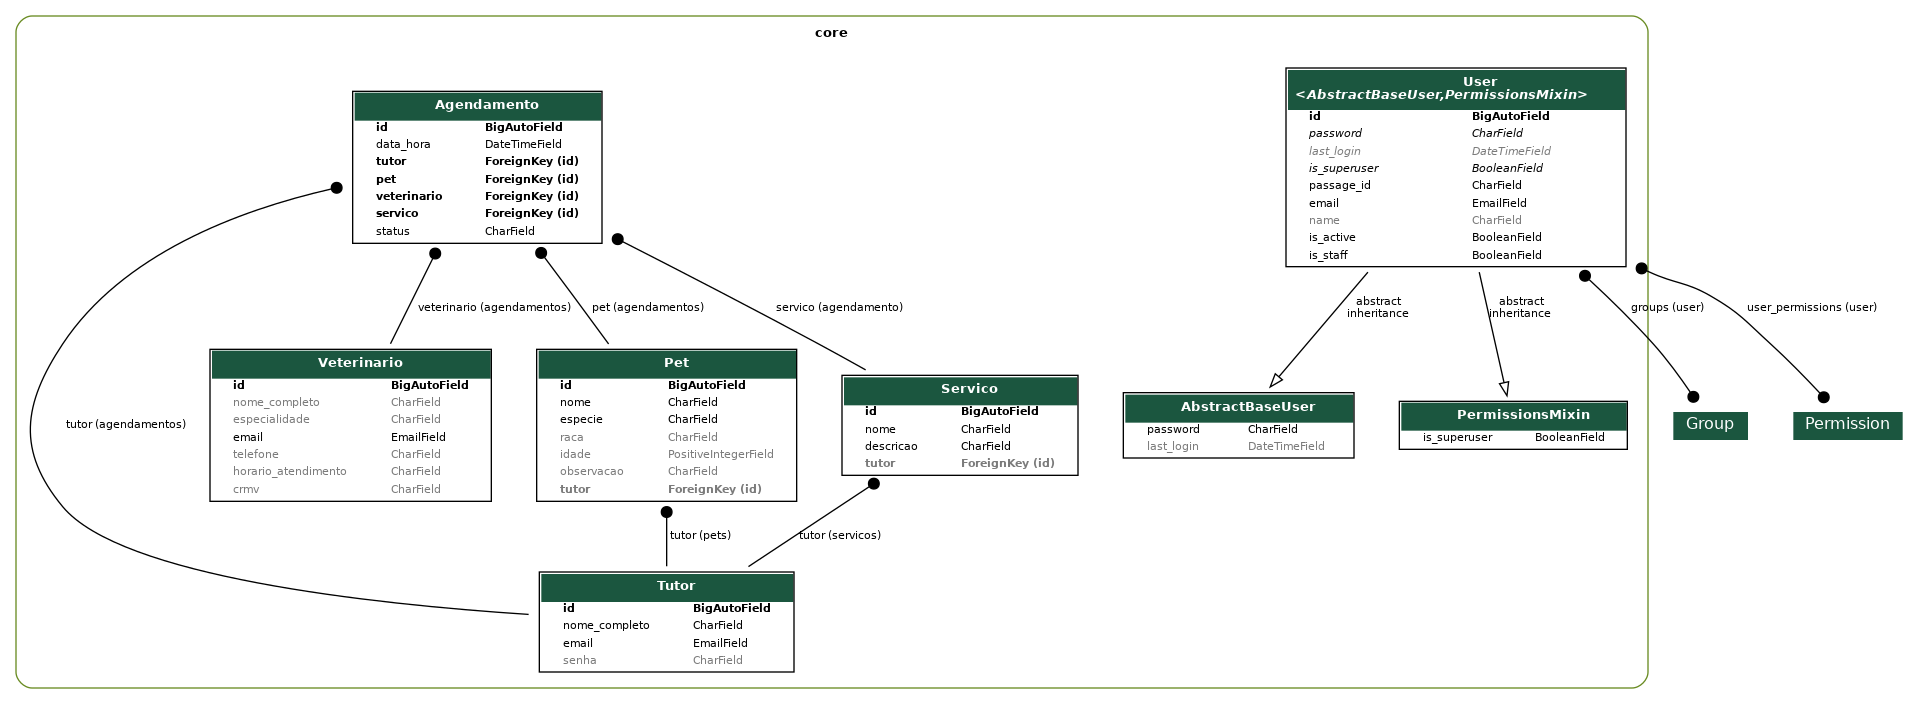
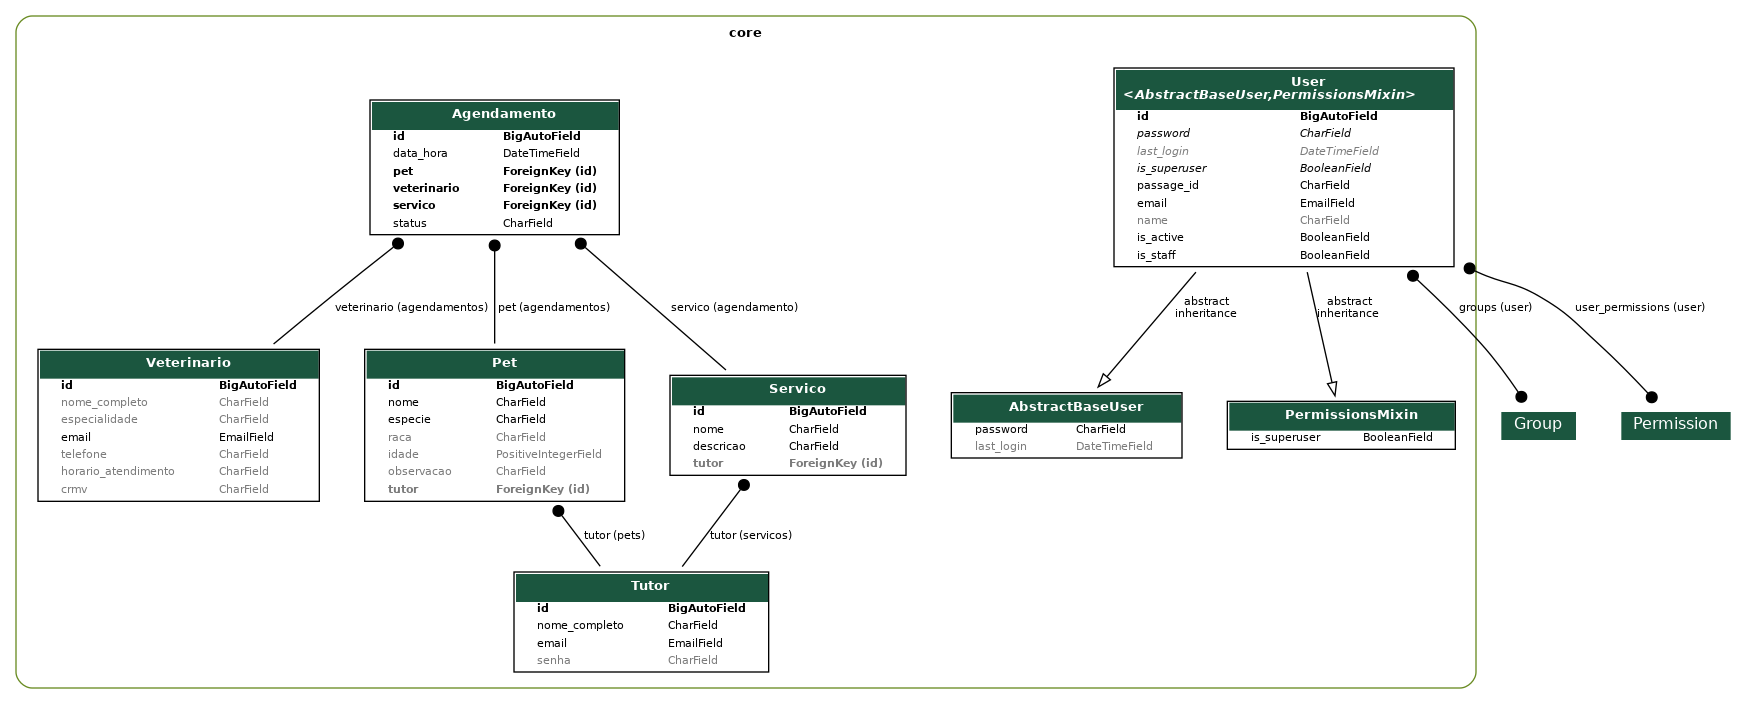
Feat: Arrumando

diff --git a/core/serializers/tutor.py b/core/serializers/tutor.py
@@ -28,30 +28,13 @@ class TutorSerializer(serializers.ModelSerializer):
     def get_qtd_pets(self, obj):
         return obj.pets.count() if hasattr(obj, 'pets') else 0
 
-<<<<<<< HEAD
     def validate_email(self, value):
-=======
-    def get_telefone_formatado(self, obj):
-        if not obj.telefone:
-            return ''
-
-        telefone = obj.telefone
-        if len(telefone) == 11:
-            return f'({telefone[:2]}) {telefone[2:7]}-{telefone[7:]}'
-        elif len(telefone) == 10:
-            return f'({telefone[:2]}) {telefone[2:6]}-{telefone[6:]}'
-        return telefone
-
-    def validate_email(self, value):
-
->>>>>>> 0f87b8cf1c4042b1a43f1158da62e4492b30cdee
         if Tutor.objects.filter(email=value).exists():
             if self.instance and self.instance.email == value:
                 return value
             raise serializers.ValidationError('Este email já está cadastrado.')
         return value
 
-<<<<<<< HEAD
 
 def create(self, validated_data):
     validated_data.pop('confirmar_senha')
@@ -64,10 +47,3 @@ def update(self, instance, validated_data):
     if 'senha' in validated_data:
         validated_data['senha'] = 'make_password'(validated_data['senha'])
     return super().update(instance, validated_data)
-=======
-    def validate_telefone(self, value):
-
-        if value and not value.isdigit():
-            raise serializers.ValidationError('O telefone deve conter apenas números.')
-        return value
->>>>>>> 0f87b8cf1c4042b1a43f1158da62e4492b30cdee

diff --git a/core/serializers/pet.py b/core/serializers/pet.py
@@ -15,7 +15,6 @@ class PetSerializer(serializers.ModelSerializer):
             'especie',
             'raca',
             'idade',
-            'peso',
             'observacao',
             'tutor',
             'tutor_nome',
@@ -25,17 +24,3 @@ class PetSerializer(serializers.ModelSerializer):
         ]
         read_only_fields = ['id', 'idade']
         extra_kwargs = {'tutor': {'write_only': True}}
-
-    def validate_peso(self, value):
-        if value and value <= 0:
-            raise serializers.ValidationError('O peso deve ser maior que zero.')
-        return value
-
-    def validate(self, data):
-<<<<<<< HEAD
-
-=======
->>>>>>> 0f87b8cf1c4042b1a43f1158da62e4492b30cdee
-        if data.get('peso') and data.get('especie') == 'ave' and data['peso'] > 10:
-            raise serializers.ValidationError('Peso muito alto para uma ave.')
-        return data

diff --git a/core/models/pet.py b/core/models/pet.py
@@ -4,7 +4,7 @@ from core.models import Tutor
 
 
 class Pet(models.Model):
-<<<<<<< HEAD
+
     ESPECIE_CHOICES = [
         ('cachorro', 'Cachorro'),
         ('gato', 'Gato'),
@@ -12,14 +12,6 @@ class Pet(models.Model):
 
     nome = models.CharField(max_length=45)
     especie = models.CharField(max_length=20, choices=ESPECIE_CHOICES)
-=======
-    STATUS_CHOICES = (
-        ('cachorro', 'Cachorro'),
-        ('gato', 'Gato'),
-    )
-    nome = models.CharField(max_length=45)
-    especie = models.CharField(max_length=20, choices=STATUS_CHOICES)
->>>>>>> 0f87b8cf1c4042b1a43f1158da62e4492b30cdee
     raca = models.CharField(max_length=45, blank=True, null=True)
     idade = models.PositiveIntegerField(blank=True, null=True)
     observacao = models.CharField(max_length=255, blank=True, null=True)

diff --git a/core/views/veterinario.py b/core/views/veterinario.py
@@ -4,24 +4,16 @@ from core.serializers import VeterinarioSerializer
 
 
 class VeterinarioViewSet(ModelViewSet):
-<<<<<<< HEAD
     queryset = Veterinario.objects.all()
-=======
-
-    queryset = Veterinario.objects.all() 
->>>>>>> 0f87b8cf1c4042b1a43f1158da62e4492b30cdee
     serializer_class = VeterinarioSerializer
 
     def perform_create(self, serializer):
+
         serializer.save()
 
     def perform_update(self, serializer):
         serializer.save()
 
     def perform_destroy(self, instance):
-<<<<<<< HEAD
-        instance.delete()
-=======
 
-        instance.delete() 
->>>>>>> 0f87b8cf1c4042b1a43f1158da62e4492b30cdee
+        instance.delete()

diff --git a/core/migrations/0014_merge_20250915_1440.py b/core/migrations/0014_merge_20250915_1440.py
@@ -1,0 +1,14 @@
+# Generated by Django 5.2.6 on 2025-09-15 17:40
+
+from django.db import migrations
+
+
+class Migration(migrations.Migration):
+
+    dependencies = [
+        ('core', '0012_alter_tutor_options_remove_pet_peso_and_more'),
+        ('core', '0013_alter_pet_especie'),
+    ]
+
+    operations = [
+    ]
